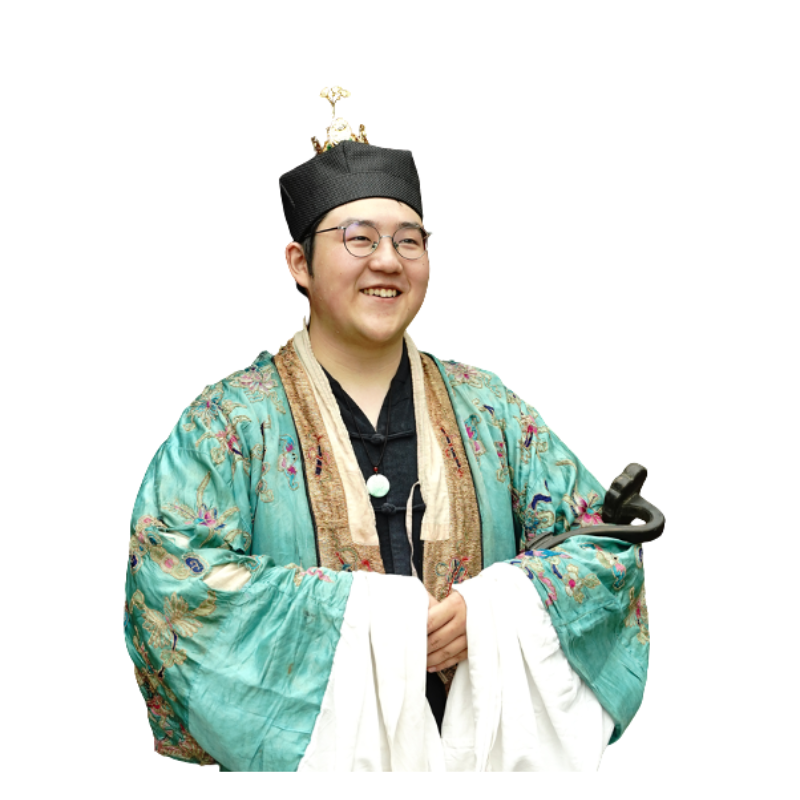
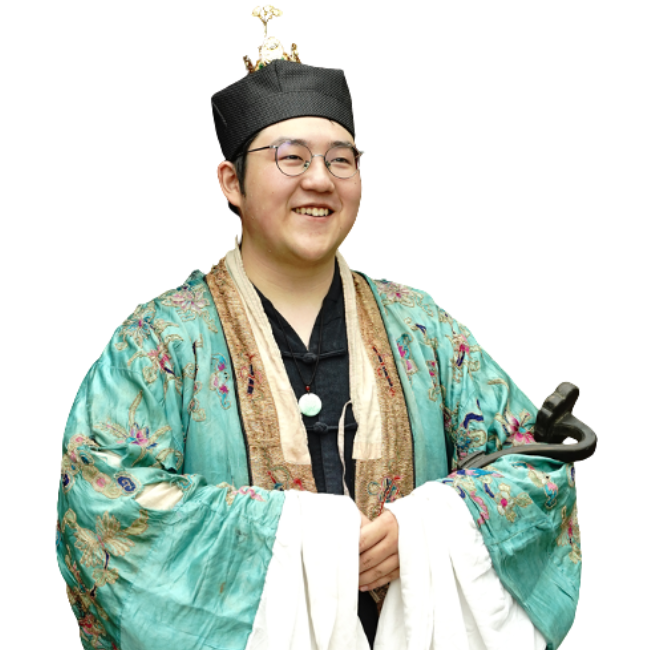
优化网站图片显示：替换emoji为真实照片，调整成员头像大小，优化活动/法会图片剪裁

diff --git a/index.html b/index.html
@@ -61,7 +61,7 @@
                 <div class="about-text">
                     <h3 data-zh="使命与愿景" data-en="Mission & Vision"></h3>
                     <p data-zh="美国阳翥道教协会成立于2025年，总部设于纽约。协会以弘扬道教文化、促进国际道教交流、服务社区大众为宗旨，致力于在当代社会中传承和发展道教的精神价值与修行智慧。" data-en="The Yangzhu Taoist Association of America, founded in 2025 and headquartered in New York, is dedicated to promoting Taoist culture, fostering international exchange, and serving the wider community. The Association's mission is to preserve and develop the spiritual values and practices of Daoism in today's society.">美国阳翥道教协会成立于2025年，总部设于纽约。协会以弘扬道教文化、促进国际道教交流、服务社区大众为宗旨，致力于在当代社会中传承和发展道教的精神价值与修行智慧。</p>
-                    <p data-zh="本协会秉承&ldquo;承法旌阳，道翥西土&rdquo;的理念，组织经诵、讲座、文化活动及公益事业，推动传统道教经典、符箓法脉、养生修炼与现代社会的结合。" data-en="Upholding the principle of &quot;Inheriting the Dharma of Jingyang, and letting the Dao soar across the Western land&quot;, the Association organizes scripture recitations, lectures, cultural programs, and charitable activities. It seeks to integrate traditional Taoist classics, ritual lineages, talismanic practices, and methods of self-cultivation with modern life.">本协会秉承"承法旌阳，道翥西土"的理念，组织经诵、讲座、文化活动及公益事业，推动传统道教经典、符箓法脉、养生修炼与现代社会的结合。</p>
+                    <p data-zh="本协会秉承"承法旌阳，道翥西土"的理念，组织经诵、讲座、文化活动及公益事业，推动传统道教经典、符箓法脉、养生修炼与现代社会的结合。" data-en="Upholding the principle of 'Inheriting the Dharma of Jingyang, and letting the Dao soar across the Western land,' the Association organizes scripture recitations, lectures, cultural programs, and charitable activities. It seeks to integrate traditional Taoist classics, ritual lineages, talismanic practices, and methods of self-cultivation with modern life.">本协会秉承"承法旌阳，道翥西土"的理念，组织经诵、讲座、文化活动及公益事业，推动传统道教经典、符箓法脉、养生修炼与现代社会的结合。</p>
                     <p data-zh="阳翥，寓意旭日东升、扶摇直上，象征道教精神的光明与生生不息。美国阳翥道教协会愿与社会各界携手，弘扬道教优秀传统文化，推动道教智慧服务人类心灵与世界和平。" data-en="The name Yangzhu symbolizes the rising sun and the soaring flight of vitality, representing the brightness and ever-renewing spirit of Daoism. The Yangzhu Taoist Association of America aspires to join hands with all sectors of society to promote Taoist heritage and to share Taoist wisdom for the well-being of humanity and the peace of the world.">阳翥，寓意旭日东升、扶摇直上，象征道教精神的光明与生生不息。美国阳翥道教协会愿与社会各界携手，弘扬道教优秀传统文化，推动道教智慧服务人类心灵与世界和平。</p>
                 </div>
                 <div class="about-image">
@@ -77,13 +77,17 @@
             <h2 class="section-title" data-zh="主要成员" data-en="Key Members"></h2>
             <div class="members-grid">
                 <div class="member-card">
-                    <div class="member-avatar"></div>
+                    <div class="member-avatar">
+                        <img src="assets/members/president/jifaxin_no_bg.png" alt="吉法新会长" class="member-photo">
+                    </div>
                     <h3 class="member-name" data-zh="会长" data-en="President"></h3>
                     <p class="member-title" data-zh="吉法新" data-en="Ji Faxin"></p>
                     <p class="member-desc" data-zh="净明祖庭西山万寿宫传度道士，擅长道教科仪法事、符箓及经典解读" data-en="Ordained priest from Xishan Wanshou Palace, skilled in Taoist rituals, talismanic practices and scripture interpretation"></p>
                 </div>
                 <div class="member-card">
-                    <div class="member-avatar"></div>
+                    <div class="member-avatar">
+                        <img src="assets/members/vice_president/huyuanming_no_bg.png" alt="胡源明副会长" class="member-photo">
+                    </div>
                     <h3 class="member-name" data-zh="副会长" data-en="Vice President"></h3>
                     <p class="member-title" data-zh="胡源明 (Jacob M. Bressman)" data-en="Jacob M. Bressman (Hu Yuanming)"></p>
                     <p class="member-desc" data-zh="正一道净明派正式道士，修习道教23年，精通天医、符咒及道教科仪" data-en="Ordained Zhengyi Jingming priest, 23 years of Taoist practice, expert in celestial medicine, talismans and rituals"></p>
@@ -104,17 +108,23 @@
             <h2 class="section-title" data-zh="协会活动" data-en="Activities"></h2>
             <div class="activities-grid">
                 <div class="activity-card">
-                    <div class="activity-icon">📖</div>
+                    <div class="activity-icon">
+                        <img src="assets/activities/道德经诵经比赛/1.jpg" alt="道德经诵经比赛" class="activity-photo">
+                    </div>
                     <h3 data-zh="道德经诵经比赛" data-en="Tao Te Ching Recitation Competition"></h3>
                     <p data-zh="国际道教日举行道德经诵经比赛，吸引各国道教爱好者参加" data-en="Held Tao Te Ching recitation competition on International Taoism Day, attracting participants from various countries"></p>
                 </div>
                 <div class="activity-card">
-                    <div class="activity-icon">🏛</div>
+                    <div class="activity-icon">
+                        <img src="assets/activities/第一次参观大都会博物馆/1.jpg" alt="博物馆参观" class="activity-photo">
+                    </div>
                     <h3 data-zh="博物馆参观" data-en="Museum Visits"></h3>
                     <p data-zh="受大都会博物馆邀请参观道教法衣馆藏，促进文化交流" data-en="Invited by Metropolitan Museum for private viewing of Taoist ceremonial robes collection"></p>
                 </div>
                 <div class="activity-card">
-                    <div class="activity-icon">🎨</div>
+                    <div class="activity-icon">
+                        <img src="assets/activities/免费发放天师骑艾虎版画/1.jpg" alt="文化发放" class="activity-photo">
+                    </div>
                     <h3 data-zh="文化发放" data-en="Cultural Distribution"></h3>
                     <p data-zh="端午节免费发放"天师骑艾虎"版画，弘扬传统文化" data-en="Free distribution of 'Celestial Master Riding Mugwort Tiger' prints during Dragon Boat Festival"></p>
                 </div>
@@ -133,13 +143,17 @@
             <h2 class="section-title" data-zh="协会法会" data-en="Ceremonies"></h2>
             <div class="ceremonies-grid">
                 <div class="ceremony-card">
-                    <div class="ceremony-icon">🏮</div>
+                    <div class="ceremony-icon">
+                        <img src="assets/ceremonies/乙巳年小开光法会/1.jpg" alt="乙巳年小开光法会" class="ceremony-photo">
+                    </div>
                     <h3 data-zh="乙巳年小开光法会" data-en="Yisi Year Minor Consecration Ceremony"></h3>
                     <p class="ceremony-year" data-zh="2025年 乙巳年" data-en="Year 2025 (Yisi)">2025年 乙巳年</p>
                     <p data-zh="举行传统道教开光仪式，为道教法器和符印开光加持" data-en="Traditional Taoist consecration rituals to bless ritual implements and talismans">举行传统道教开光仪式，为道教法器和符印开光加持</p>
                 </div>
                 <div class="ceremony-card">
-                    <div class="ceremony-icon">🎋</div>
+                    <div class="ceremony-icon">
+                        <img src="assets/ceremonies/甲辰年年终祈福酬神法会/1.jpg" alt="甲辰年年终祈福酬神法会" class="ceremony-photo">
+                    </div>
                     <h3 data-zh="甲辰年年终祈福酬神法会" data-en="Jiachen Year-End Prayer Ceremony"></h3>
                     <p class="ceremony-year" data-zh="甲辰年末" data-en="End of Jiachen Year">甲辰年末</p>
                     <p data-zh="年终祈福酬神法会，感谢神明护佑，祈求新年平安吉祥" data-en="Year-end prayer ceremony, expressing gratitude for divine protection and praying for peace">年终祈福酬神法会，感谢神明护佑，祈求新年平安吉祥</p>
@@ -202,10 +216,10 @@
                         <div class="contact-icon">📧</div>
                         <div>
                             <h4 data-zh="邮箱" data-en="Email"></h4>
-                            <a href="mailto:office@yangzhu.org">office@yangzhu.org</a>
+                            <p>office@yangzhu.org</p>
                         </div>
                     </div>
-                    <div class="contact-item" style="display: none;">
+                    <div class="contact-item" hidden>
                         <div class="contact-icon">📱</div>
                         <div>
                             <h4 data-zh="电话" data-en="Phone"></h4>
@@ -216,9 +230,9 @@
                 <div class="contact-form">
                     <h3 data-zh="留言咨询" data-en="Send Message"></h3>
                     <form>
-                        <input type="text" placeholder="姓名 / Name" required disabled>
-                        <input type="email" placeholder="邮箱 / Email" required disabled>
-                        <textarea placeholder="留言内容 / Message" rows="5" required disabled></textarea>
+                        <input type="text" placeholder="姓名 / Name" required>
+                        <input type="email" placeholder="邮箱 / Email" required>
+                        <textarea placeholder="留言内容 / Message" rows="5" required></textarea>
                         <button type="submit" data-zh="发送留言" data-en="Send Message" disabled>发送留言</button>
                     </form>
                 </div>

diff --git a/styles.css b/styles.css
@@ -452,12 +452,29 @@ body {
 }
 
 .member-avatar::before {
-    content: '👨🦳';
+    /* content: '👨🦳'; */
     position: absolute;
     top: 50%;
     left: 50%;
     transform: translate(-50%, -50%);
     font-size: 3rem;
+}
+
+/* 成员照片样式 */
+.member-photo {
+    width: 115%;
+    height: 115%;
+    object-fit: cover;
+    border-radius: 50%;
+    border: 3px solid var(--secondary-color);
+    transition: all 0.3s ease;
+    margin: -7.5%;
+}
+
+.member-photo:hover {
+    transform: scale(1.05);
+    box-shadow: 0 10px 20px var(--shadow-color);
+    border-color: var(--accent-color);
 }
 
 .member-name {
@@ -509,6 +526,23 @@ body {
 .activity-icon {
     font-size: 3rem;
     margin-bottom: 1rem;
+}
+
+/* 活动照片样式 */
+.activity-photo {
+    width: 100%;
+    height: 120px;
+    object-fit: cover;
+    object-position: center bottom;
+    border-radius: 10px;
+    margin-bottom: 1rem;
+    border: 2px solid var(--secondary-color);
+    transition: all 0.3s ease;
+}
+
+.activity-photo:hover {
+    transform: scale(1.05);
+    box-shadow: 0 10px 20px var(--shadow-color);
 }
 
 .activity-card h3 {
@@ -604,6 +638,23 @@ body {
     font-size: 3rem;
     margin-bottom: 20px;
     display: block;
+}
+
+/* 法会照片样式 */
+.ceremony-photo {
+    width: 100%;
+    height: 120px;
+    object-fit: cover;
+    object-position: center bottom;
+    border-radius: 10px;
+    margin-bottom: 1rem;
+    border: 2px solid var(--secondary-color);
+    transition: all 0.3s ease;
+}
+
+.ceremony-photo:hover {
+    transform: scale(1.05);
+    box-shadow: 0 10px 20px var(--shadow-color);
 }
 
 .ceremony-card h3 {
